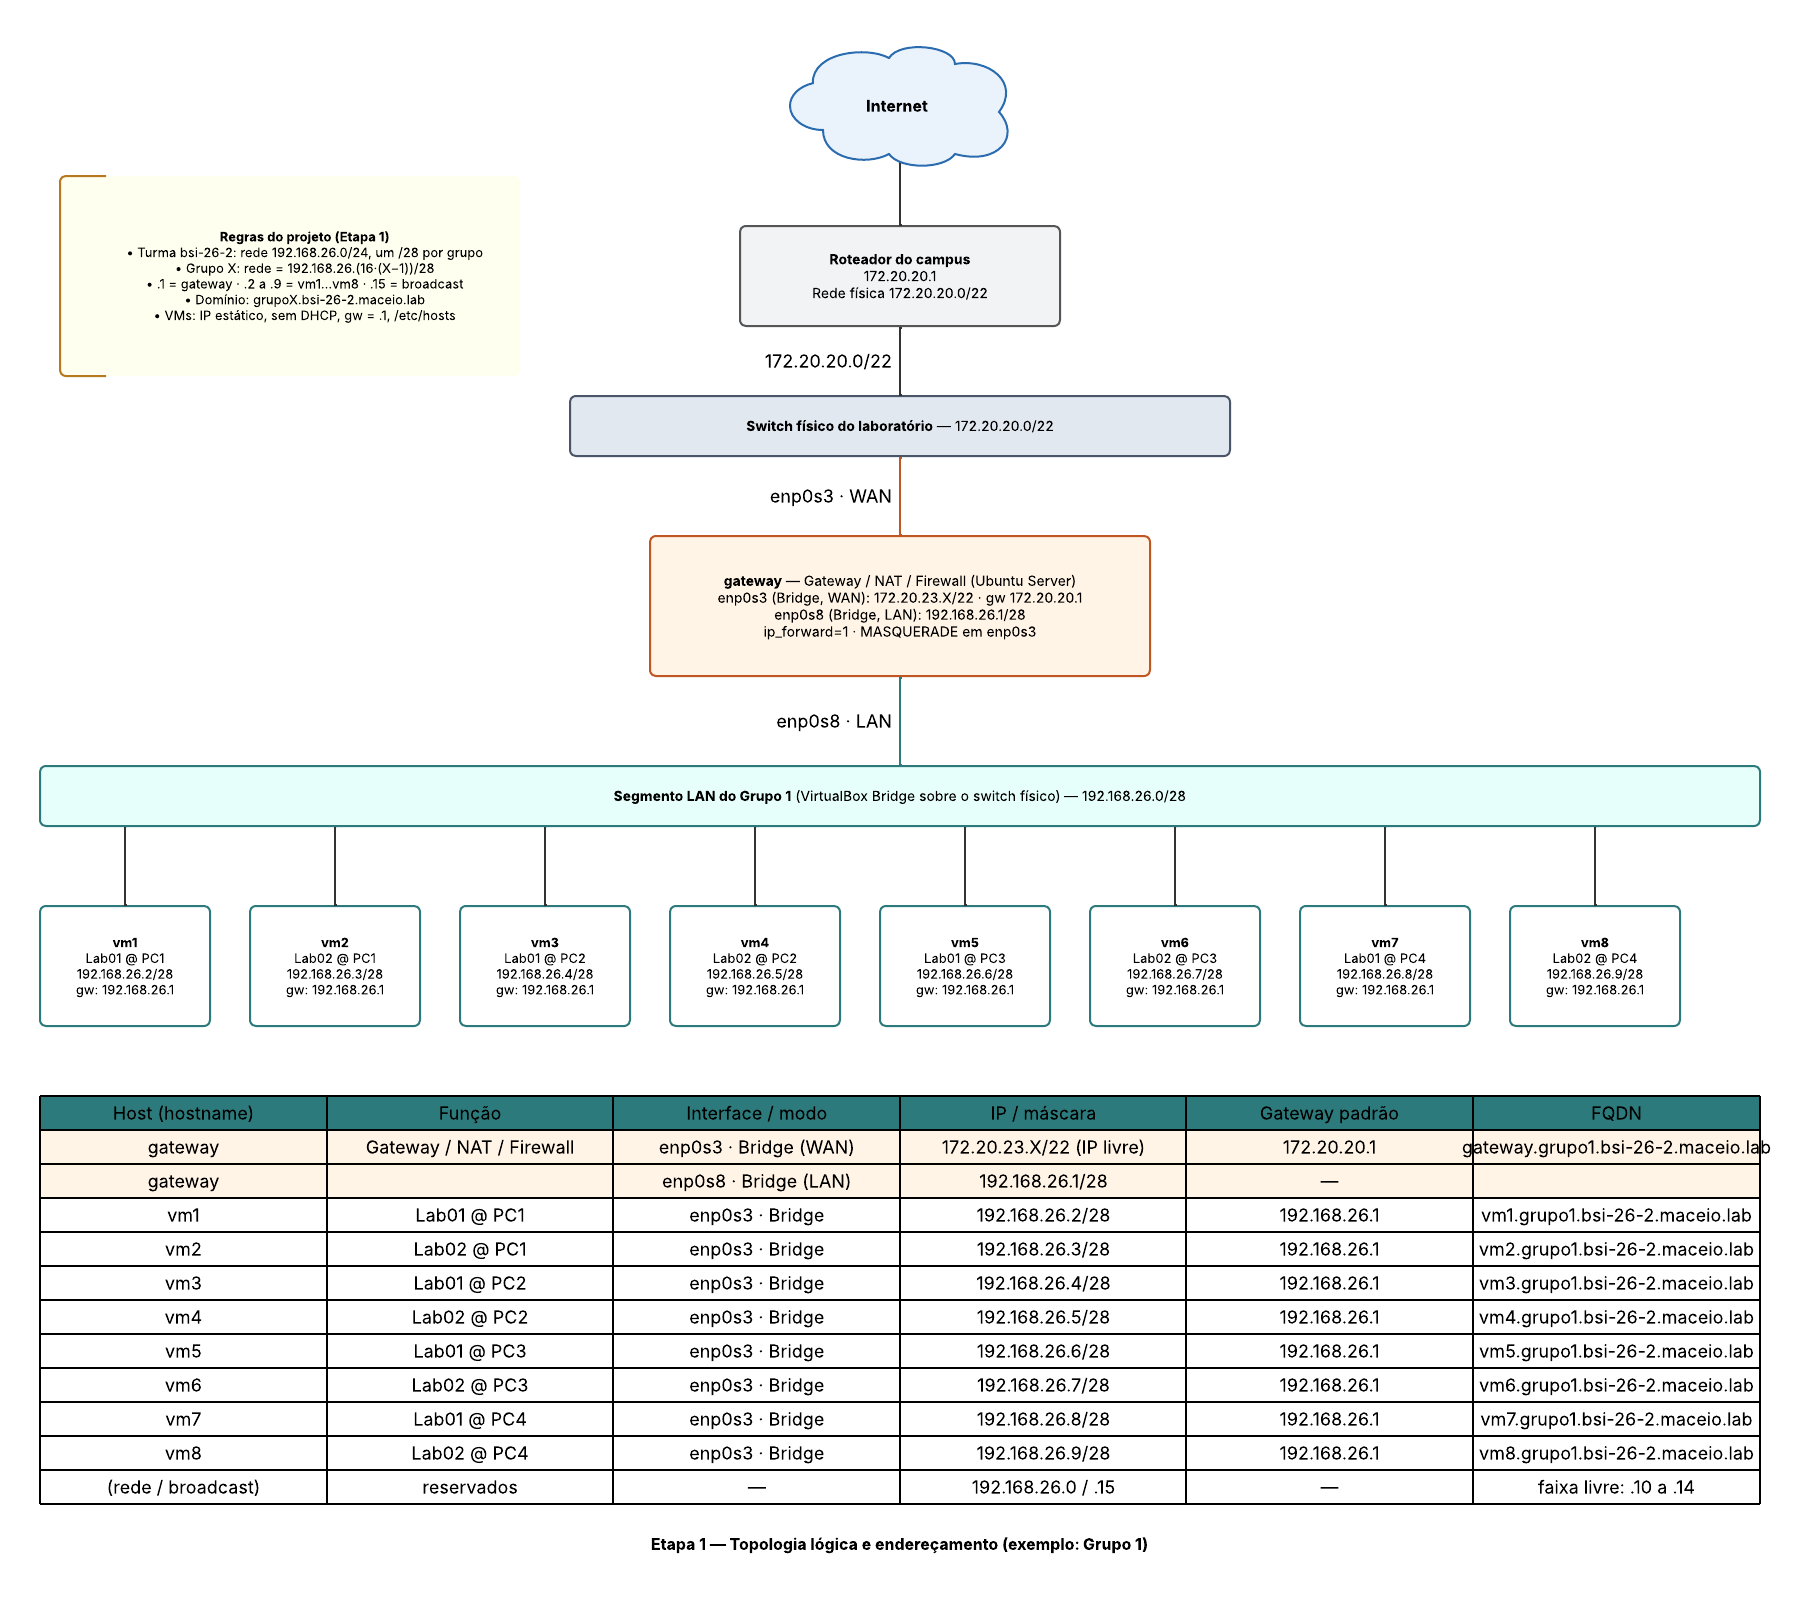
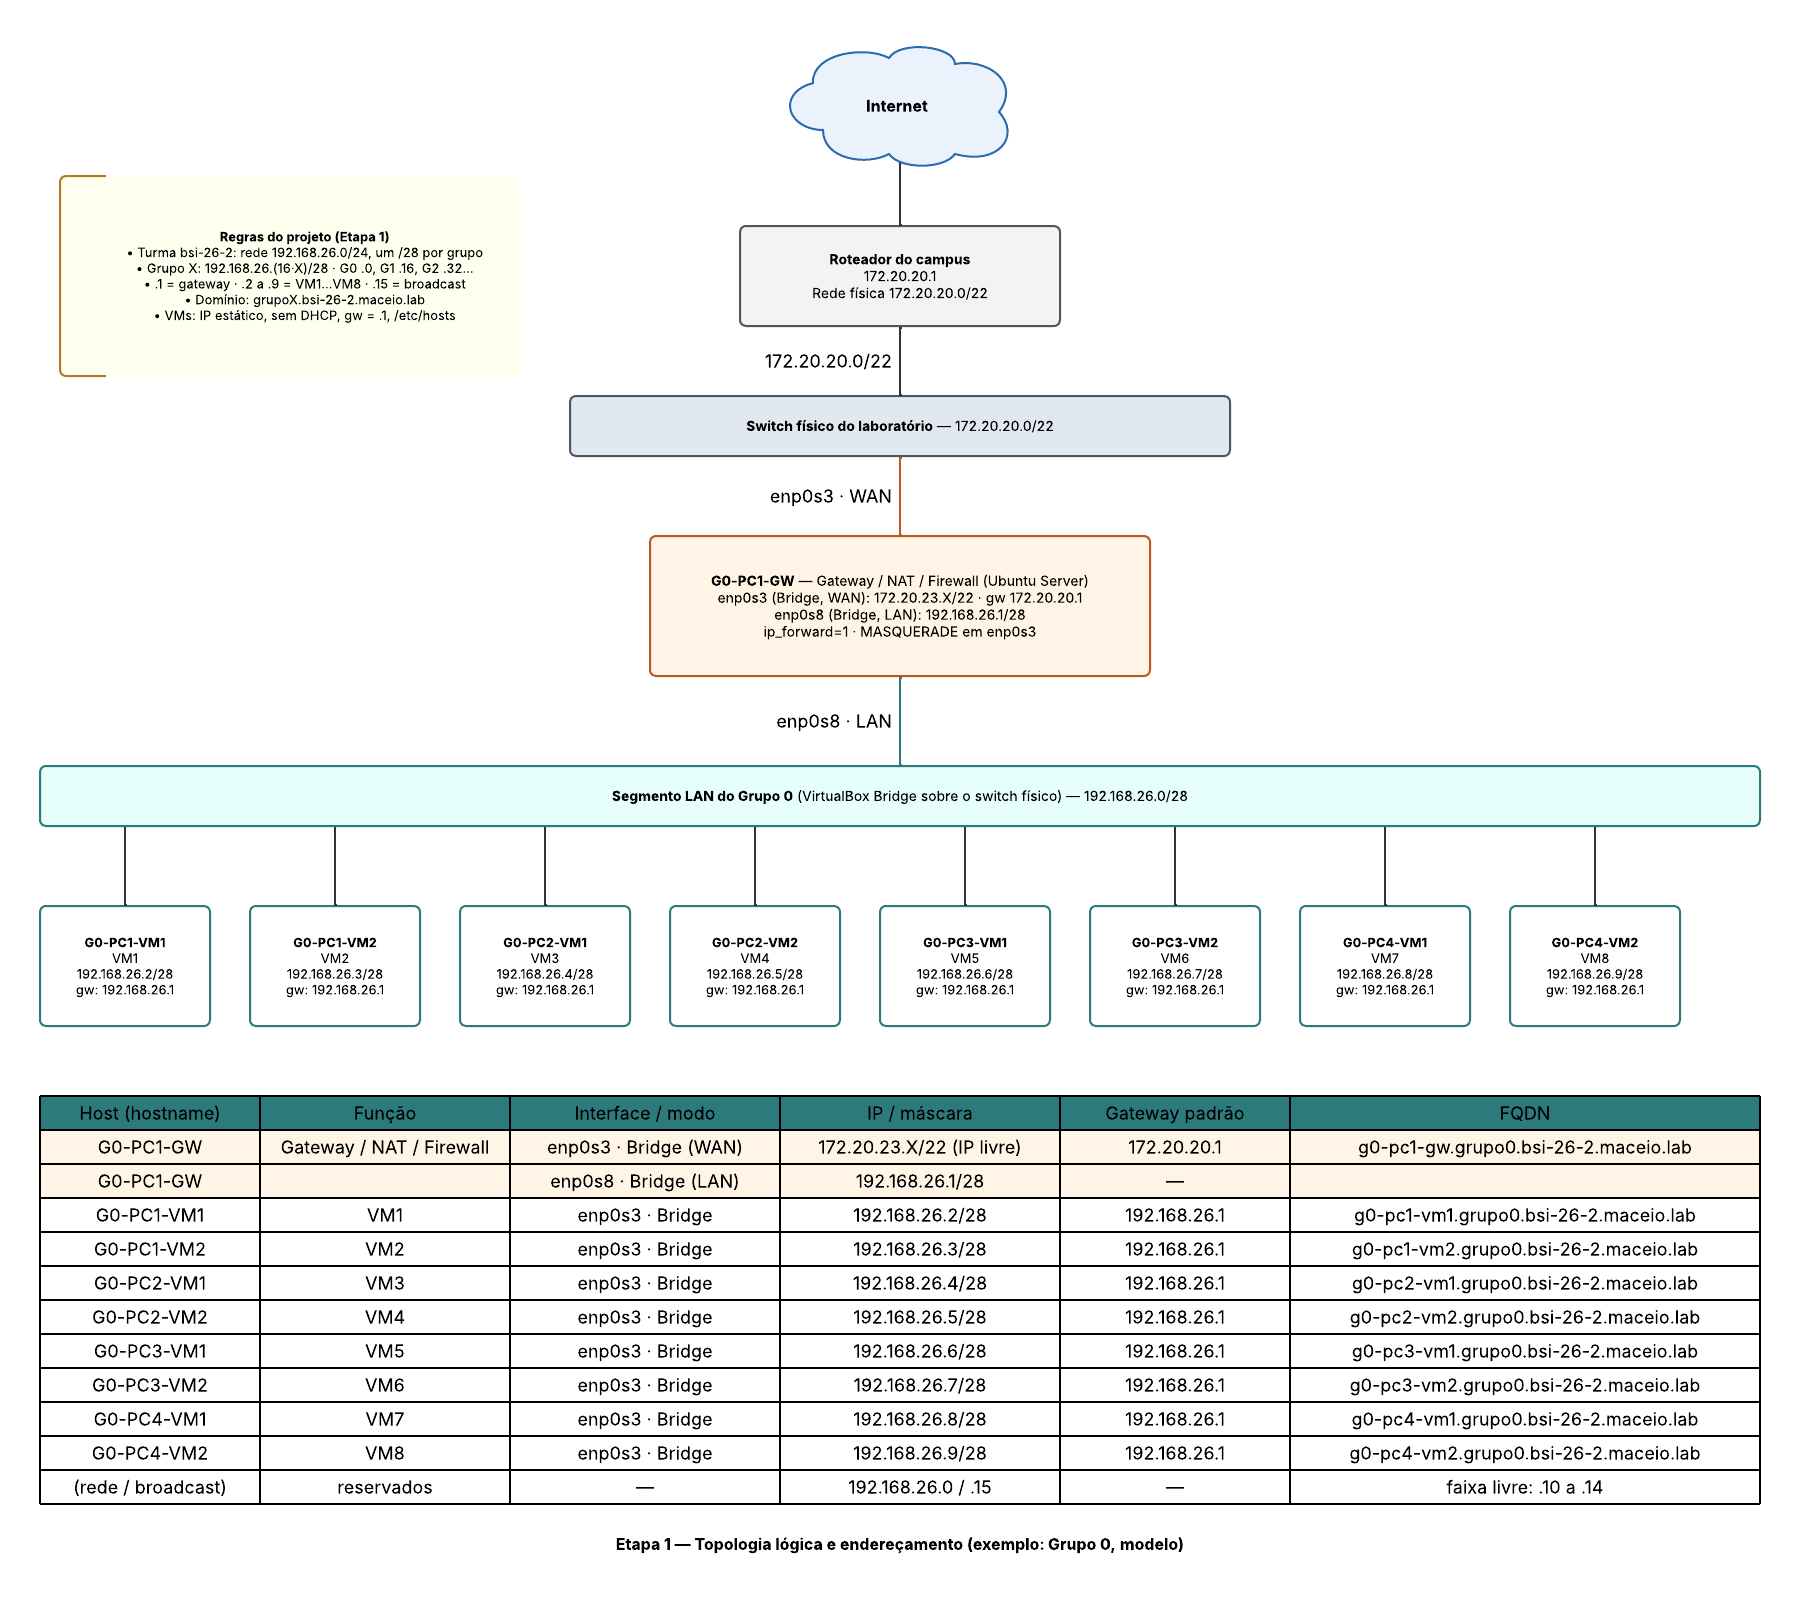
Projeto Etapa 1: enderecamento 16*X por grupo e nomes Gx-PCy-VMz
Grupo 0 (modelo) usa o 1o range /28, Grupo 1 o 2o, e assim por diante.
Tabela de referencia e diagramas passam a usar o Grupo 0 e o padrao de
nomes da planilha de acompanhamento.

Claude-Session: https://claude.ai/code/session_01Gxkw2uZ2Z3tMgDyiTNJhAQ

diff --git a/projeto-etapa1/README.md b/projeto-etapa1/README.md
@@ -12,7 +12,7 @@ Este projeto adapta o [Projeto Final de Fundamentos de Redes (bsi-26-1)](https:/
 
 ### 2. Topologia
 
-**Figura 1:** Topologia lógica e endereçamento (exemplo do Grupo 1).
+**Figura 1:** Topologia lógica e endereçamento (exemplo do Grupo 0, modelo).
 
 ![Topologia lógica](topologia-logica-etapa1.png)
 
@@ -35,46 +35,44 @@ Diagrama editável no Lucid: [LSOR BSI - Etapa 1 - Topologia com Gateway](https:
 ### 4. Endereçamento IP dos grupos
 
 - A turma **bsi-26-2** usa a rede **192.168.26.0/24**, dividida em sub-redes **/28** (255.255.255.240), uma por grupo.
-- O Grupo **X** usa a rede `192.168.26.(16 × (X − 1))/28`.
+- O Grupo **X** usa a rede `192.168.26.(16 × X)/28`: o Grupo 0 (modelo) usa o 1º range, o Grupo 1 o 2º, o Grupo 2 o 3º, e assim por diante.
 - Dentro da sub-rede do grupo, a distribuição é:
   - 1º IP útil: **gateway**, interface LAN `enp0s8`.
   - 2º ao 9º IP útil: **vm1 a vm8**.
   - Os demais endereços ficam livres.
 
-| Grupo | Rede /28 | Gateway (LAN) | vm1 … vm8 | Broadcast |
+| Grupo | Rede /28 | Gateway (LAN) | VM1 … VM8 | Broadcast |
 |:--:|:--|:--|:--|:--|
-| 1 | 192.168.26.0 | .1 | .2 – .9 | .15 |
-| 2 | 192.168.26.16 | .17 | .18 – .25 | .31 |
-| 3 | 192.168.26.32 | .33 | .34 – .41 | .47 |
-| 4 | 192.168.26.48 | .49 | .50 – .57 | .63 |
-| 5 | 192.168.26.64 | .65 | .66 – .73 | .79 |
-| 6 | 192.168.26.80 | .81 | .82 – .89 | .95 |
-| 7 | 192.168.26.96 | .97 | .98 – .105 | .111 |
-| 8 | 192.168.26.112 | .113 | .114 – .121 | .127 |
+| 0 (modelo) | 192.168.26.0 | .1 | .2 – .9 | .15 |
+| 1 | 192.168.26.16 | .17 | .18 – .25 | .31 |
+| 2 | 192.168.26.32 | .33 | .34 – .41 | .47 |
+| 3 | 192.168.26.48 | .49 | .50 – .57 | .63 |
+| 4 | 192.168.26.64 | .65 | .66 – .73 | .79 |
+| 5 | 192.168.26.80 | .81 | .82 – .89 | .95 |
 
 ### 5. Nomenclatura e domínio (FQDN)
 
 - O domínio de cada grupo segue o formato `grupoX.bsi-26-2.maceio.lab`.
-- O FQDN de cada máquina segue o formato `<host>.grupoX.bsi-26-2.maceio.lab`.
-- Exemplos:
-  - `gateway.grupo1.bsi-26-2.maceio.lab`
-  - `vm1.grupo1.bsi-26-2.maceio.lab`
-- Os hostnames `vm1` … `vm8` são sugestões. O grupo pode escolher outros nomes (ex.: bairros de Maceió), desde que mantenha o padrão do domínio.
+- Os hostnames seguem o padrão da planilha de acompanhamento: `Gx-PC1-GW` para o gateway e `Gx-PCy-VMz` para as VMs (PC 1 a 4, VM 1 ou 2 em cada PC).
+- O FQDN de cada máquina é o hostname em minúsculas seguido do domínio: `<host>.grupoX.bsi-26-2.maceio.lab`.
+- Exemplos do Grupo 1:
+  - `g1-pc1-gw.grupo1.bsi-26-2.maceio.lab`
+  - `g1-pc1-vm1.grupo1.bsi-26-2.maceio.lab`
 
-### 6. Tabela de referência — Grupo 1
+### 6. Tabela de referência — Grupo 0 (modelo)
 
 | Host | Placa / modo VirtualBox | Interface | IP / máscara | Gateway padrão | FQDN |
 |:--|:--|:--|:--|:--|:--|
-| gateway | Adaptador 1 · Bridge (WAN) | enp0s3 | 172.20.23.X/22 (IP livre) | 172.20.20.1 | gateway.grupo1.bsi-26-2.maceio.lab |
-| gateway | Adaptador 2 · Bridge (LAN) | enp0s8 | 192.168.26.1/28 | — | — |
-| vm1 (Lab01 @ PC1) | Adaptador 1 · Bridge | enp0s3 | 192.168.26.2/28 | 192.168.26.1 | vm1.grupo1.bsi-26-2.maceio.lab |
-| vm2 (Lab02 @ PC1) | Adaptador 1 · Bridge | enp0s3 | 192.168.26.3/28 | 192.168.26.1 | vm2.grupo1.bsi-26-2.maceio.lab |
-| vm3 (Lab01 @ PC2) | Adaptador 1 · Bridge | enp0s3 | 192.168.26.4/28 | 192.168.26.1 | vm3.grupo1.bsi-26-2.maceio.lab |
-| vm4 (Lab02 @ PC2) | Adaptador 1 · Bridge | enp0s3 | 192.168.26.5/28 | 192.168.26.1 | vm4.grupo1.bsi-26-2.maceio.lab |
-| vm5 (Lab01 @ PC3) | Adaptador 1 · Bridge | enp0s3 | 192.168.26.6/28 | 192.168.26.1 | vm5.grupo1.bsi-26-2.maceio.lab |
-| vm6 (Lab02 @ PC3) | Adaptador 1 · Bridge | enp0s3 | 192.168.26.7/28 | 192.168.26.1 | vm6.grupo1.bsi-26-2.maceio.lab |
-| vm7 (Lab01 @ PC4) | Adaptador 1 · Bridge | enp0s3 | 192.168.26.8/28 | 192.168.26.1 | vm7.grupo1.bsi-26-2.maceio.lab |
-| vm8 (Lab02 @ PC4) | Adaptador 1 · Bridge | enp0s3 | 192.168.26.9/28 | 192.168.26.1 | vm8.grupo1.bsi-26-2.maceio.lab |
+| G0-PC1-GW | Adaptador 1 · Bridge (WAN) | enp0s3 | 172.20.23.X/22 (IP livre) | 172.20.20.1 | g0-pc1-gw.grupo0.bsi-26-2.maceio.lab |
+| G0-PC1-GW | Adaptador 2 · Bridge (LAN) | enp0s8 | 192.168.26.1/28 | — | — |
+| G0-PC1-VM1 (VM1) | Adaptador 1 · Bridge | enp0s3 | 192.168.26.2/28 | 192.168.26.1 | g0-pc1-vm1.grupo0.bsi-26-2.maceio.lab |
+| G0-PC1-VM2 (VM2) | Adaptador 1 · Bridge | enp0s3 | 192.168.26.3/28 | 192.168.26.1 | g0-pc1-vm2.grupo0.bsi-26-2.maceio.lab |
+| G0-PC2-VM1 (VM3) | Adaptador 1 · Bridge | enp0s3 | 192.168.26.4/28 | 192.168.26.1 | g0-pc2-vm1.grupo0.bsi-26-2.maceio.lab |
+| G0-PC2-VM2 (VM4) | Adaptador 1 · Bridge | enp0s3 | 192.168.26.5/28 | 192.168.26.1 | g0-pc2-vm2.grupo0.bsi-26-2.maceio.lab |
+| G0-PC3-VM1 (VM5) | Adaptador 1 · Bridge | enp0s3 | 192.168.26.6/28 | 192.168.26.1 | g0-pc3-vm1.grupo0.bsi-26-2.maceio.lab |
+| G0-PC3-VM2 (VM6) | Adaptador 1 · Bridge | enp0s3 | 192.168.26.7/28 | 192.168.26.1 | g0-pc3-vm2.grupo0.bsi-26-2.maceio.lab |
+| G0-PC4-VM1 (VM7) | Adaptador 1 · Bridge | enp0s3 | 192.168.26.8/28 | 192.168.26.1 | g0-pc4-vm1.grupo0.bsi-26-2.maceio.lab |
+| G0-PC4-VM2 (VM8) | Adaptador 1 · Bridge | enp0s3 | 192.168.26.9/28 | 192.168.26.1 | g0-pc4-vm2.grupo0.bsi-26-2.maceio.lab |
 
 ### 7. Requisitos de configuração
 
@@ -102,7 +100,7 @@ Diagrama editável no Lucid: [LSOR BSI - Etapa 1 - Topologia com Gateway](https:
 
 ### Etapa 1 — data a definir
 
-a) Apresentar as tabelas de definições de **nomes e IPs** de todas as VMs, incluindo o gateway (seções 4 a 6).
+a) Preencher, na planilha de acompanhamento, as tabelas de **nomes e IPs** de todas as VMs do grupo, incluindo o gateway (seções 4 a 6).
 
 b) Apresentar o **diagrama de topologia** do grupo, adaptado das Figuras 1 e 2 com os IPs do grupo.
 
